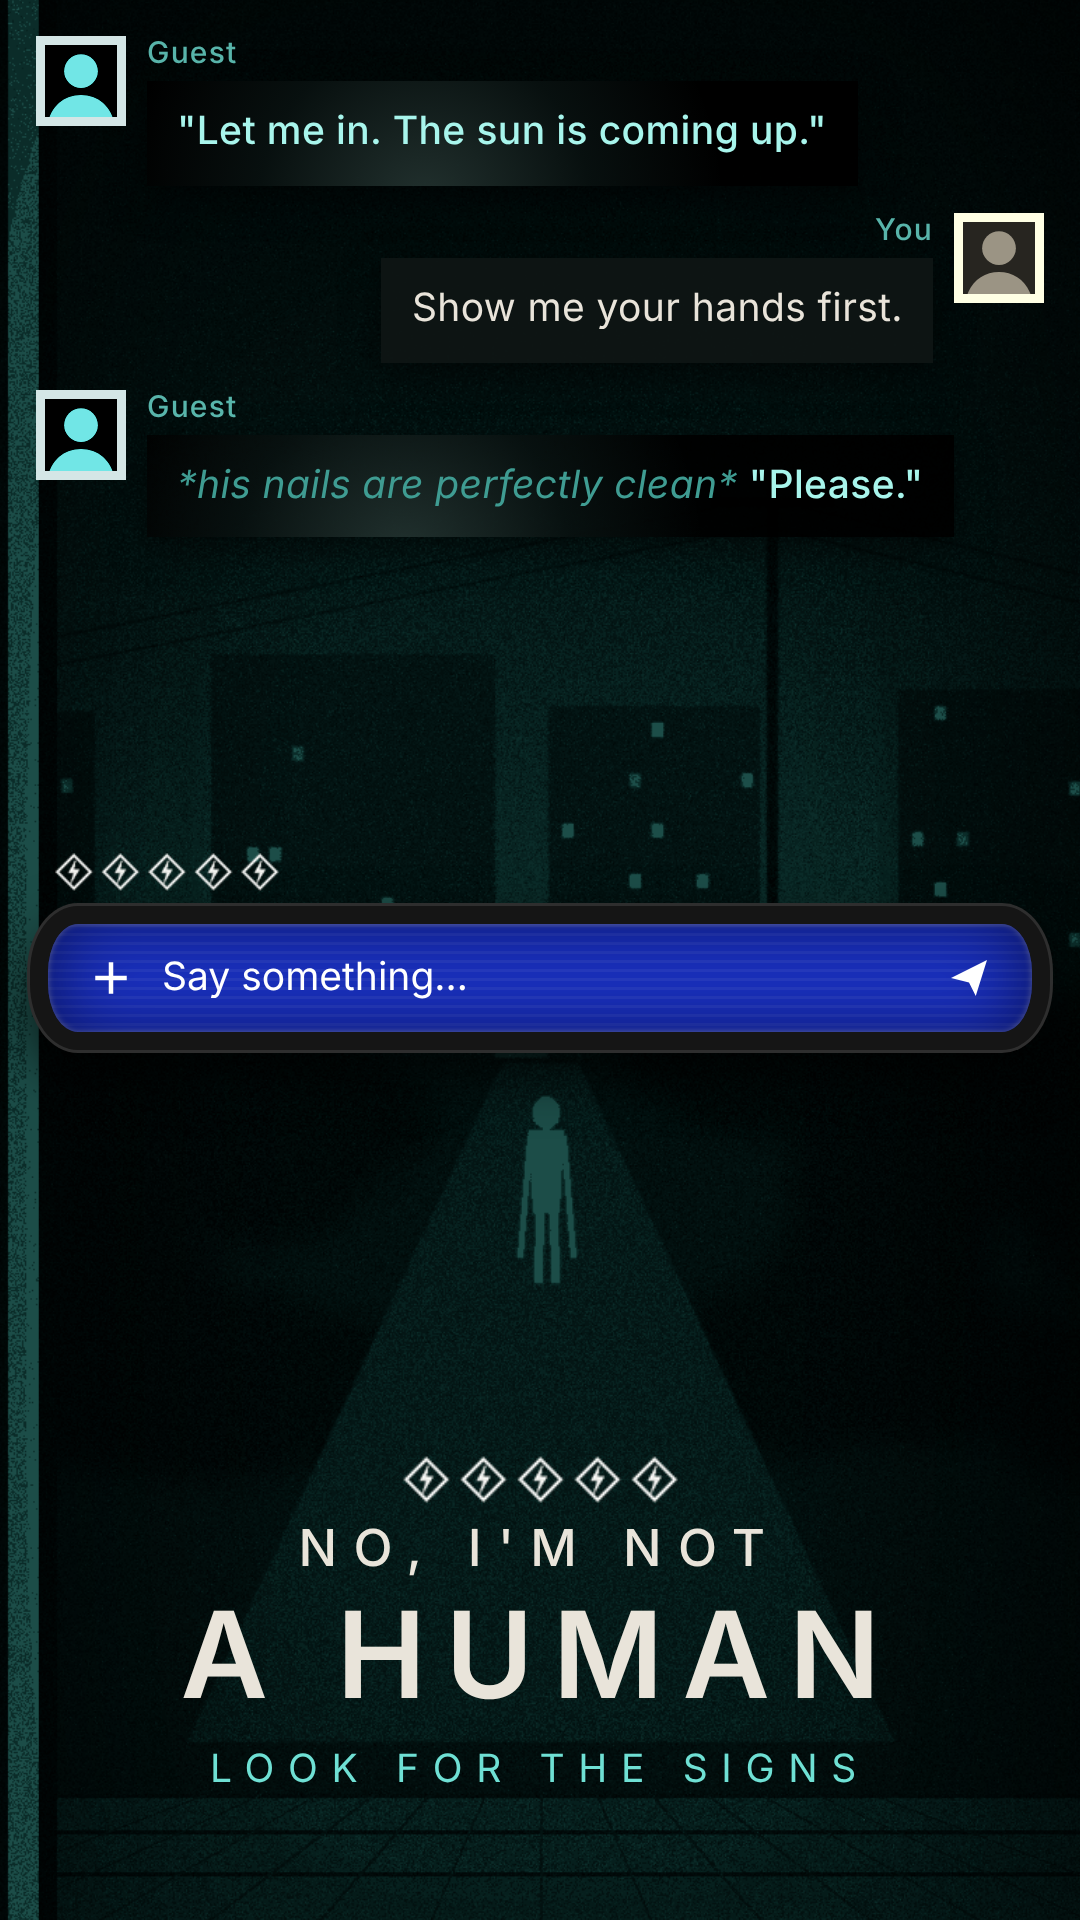
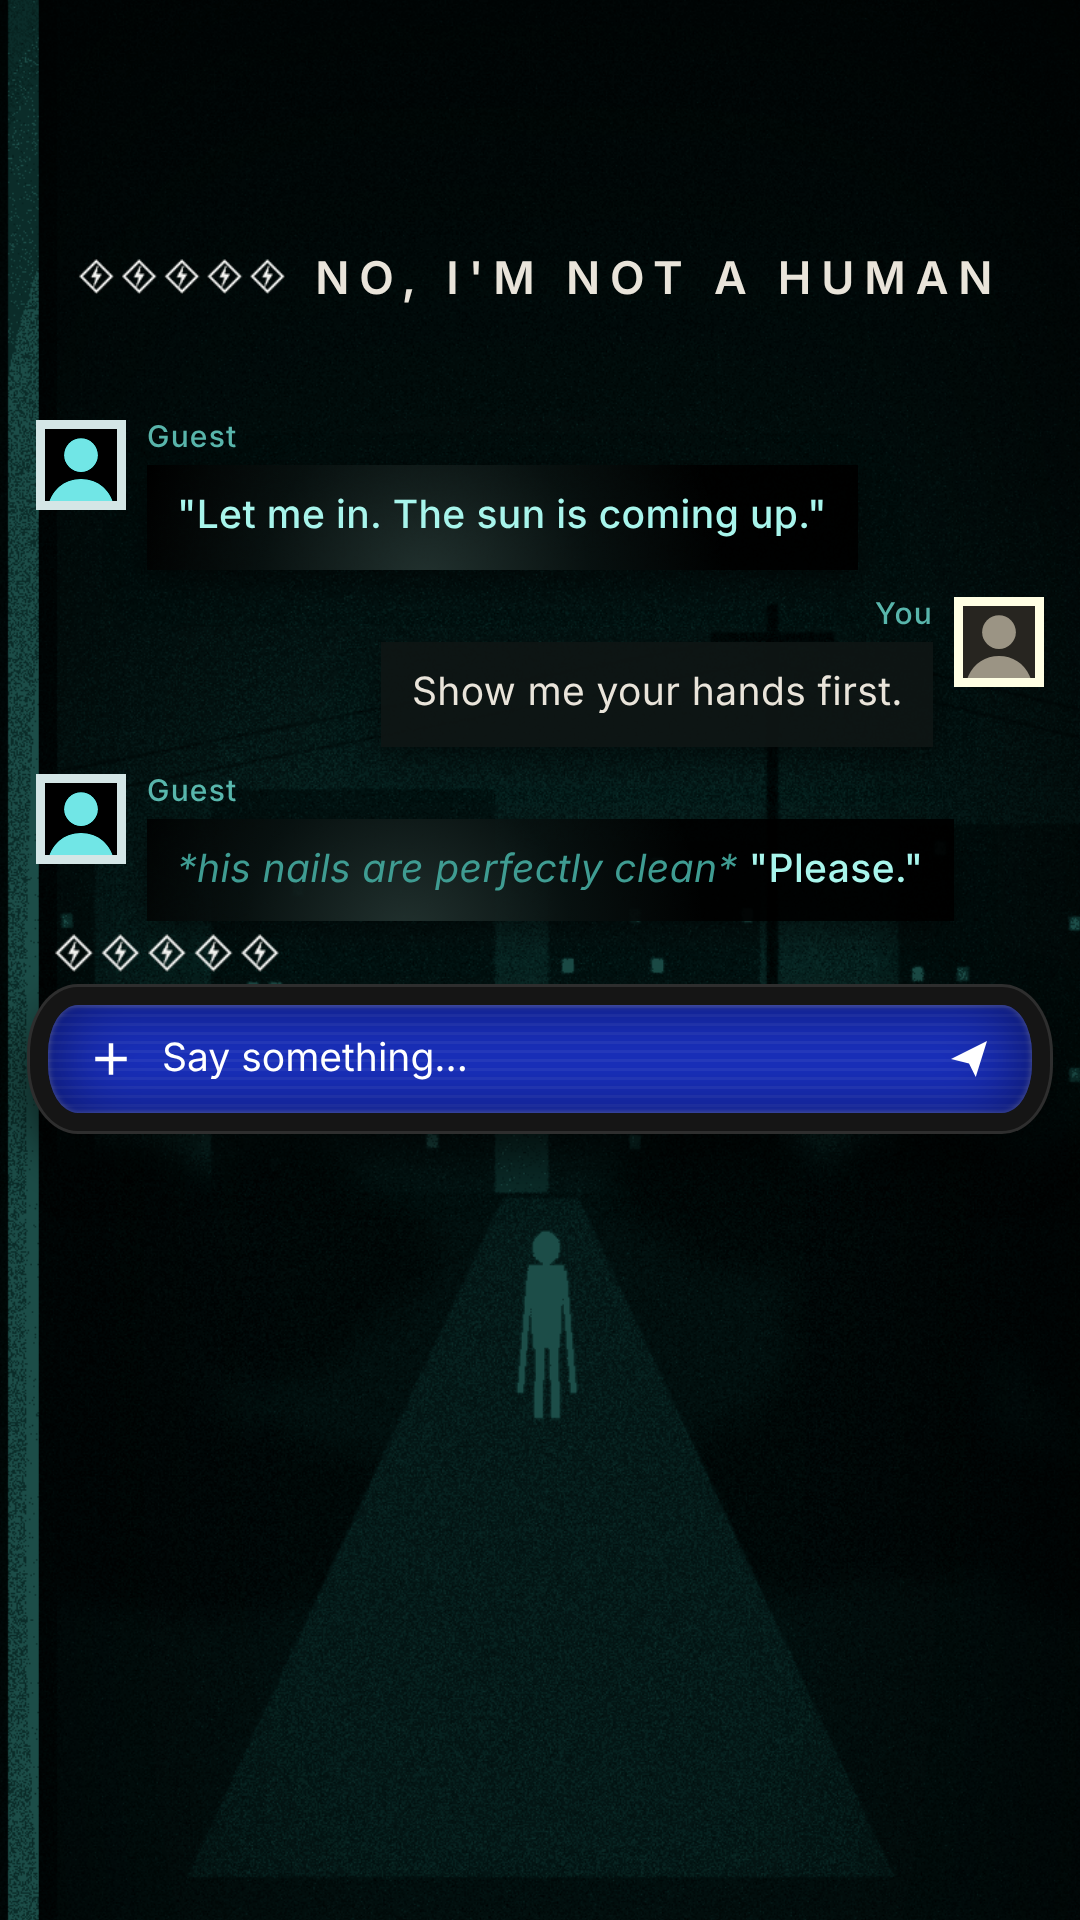
Hub covers: keep chat inside the centre square Hub actually shows
Claude-Session: https://claude.ai/code/session_011AdgnKtmEQrsYZ6duuAFrr

diff --git a/tools/hub-previews.js b/tools/hub-previews.js
@@ -1,6 +1,8 @@
-// Обложки тем для Tavo Hub в формате 9:16: сверху компактный чат из нескольких
-// реплик с настоящим CSS темы (эту часть видно в карточке), снизу название темы
-// на фоне её арта. Для каждой темы две картинки: покой и генерация.
+// Обложки тем для Tavo Hub в формате 9:16. Hub прячет края картинки: карточка
+// показывает средний квадрат, страница темы закрывает верх навигацией, а низ —
+// названием. Поэтому чат с настоящим CSS темы стоит в центральной полосе,
+// над ним маленький логотип, сверху и снизу только фон.
+// Для каждой темы две картинки: покой и генерация.
 //
 // Запуск: node tools/hub-previews.js   (нужен playwright)
 const fs = require('fs')
@@ -17,10 +19,9 @@ const THEMES = [
     active: false, // у Капри генерация почти не меняет вид
     bg: 'center top / cover',
     name: 'Capri',
-    title: `<img src="ASSETS/eye.png" style="width:44px">
-      <div style="font:800 52px 'DejaVu Sans Mono',monospace;color:#2bff6a;letter-spacing:.08em;
-        text-shadow:3px 0 0 #ff1644,-3px 0 0 #164cff,6px 6px 0 #7c3aff">CAPRI</div>
-      <div style="font:700 13px 'DejaVu Sans Mono',monospace;color:#ff1644;letter-spacing:.3em">// PROJECT CAPRICORN</div>`,
+    title: `<img src="ASSETS/eye.png" style="width:24px">
+      <span style="font:800 26px 'DejaVu Sans Mono',monospace;color:#2bff6a;letter-spacing:.08em;
+        text-shadow:2px 0 0 #ff1644,-2px 0 0 #164cff,3px 3px 0 #7c3aff">CAPRI</span>`,
     avatar: ['#2bff6a', '#09070e'],
     lines: [
       ['c', '*glitches into view* "Hehe. You\'re late, choom."'],
@@ -30,12 +31,10 @@ const THEMES = [
   },
   {
     dir: 'not-a-human',
-    bg: 'center -75px / 420px auto',
+    bg: 'center -30px / 420px auto',
     name: 'Guest',
-    title: `<img src="ASSETS/energy-5.png" style="height:16px">
-      <div style="font:500 17px Inter,sans-serif;color:#e9e4da;letter-spacing:.32em;white-space:nowrap">NO, I'M NOT</div>
-      <div style="font:600 40px Inter,sans-serif;color:#e9e4da;letter-spacing:.16em;white-space:nowrap;margin-top:-6px">A HUMAN</div>
-      <div style="font:400 13px Inter,sans-serif;color:#6fe0d4;letter-spacing:.35em">LOOK FOR THE SIGNS</div>`,
+    title: `<img src="ASSETS/energy-5.png" style="height:12px">
+      <span style="font:600 15px Inter,sans-serif;color:#e9e4da;letter-spacing:.22em;white-space:nowrap">NO, I'M NOT A HUMAN</span>`,
     avatar: ['#6fe0d4', '#04100e'],
     lines: [
       ['c', '"Let me in. The sun is coming up."'],
@@ -47,9 +46,8 @@ const THEMES = [
     dir: 'tlou-spores',
     bg: 'center top / cover',
     name: 'Joel',
-    title: `<img src="ASSETS/fireflies-a.png" style="width:300px;margin-bottom:-14px">
-      <div style="font:700 56px Inter,sans-serif;color:#efe6d2;letter-spacing:.22em;text-shadow:0 4px 18px #000">SPORES</div>
-      <div style="font:500 12px Inter,sans-serif;color:#d6ba6e;letter-spacing:.32em">THE LAST OF US · PART I</div>`,
+    title: `<span style="font:700 26px Inter,sans-serif;color:#efe6d2;letter-spacing:.24em;text-shadow:0 3px 12px #000">SPORES</span>
+      <span style="font:500 10px Inter,sans-serif;color:#d6ba6e;letter-spacing:.28em">TLOU · PART I</span>`,
     avatar: ['#d6ba6e', '#1c2018'],
     lines: [
       ['c', '"Mask on. Spores are thick down here."'],
@@ -105,9 +103,9 @@ function page(t, m, generating) {
     html,body{margin:0}
     body{width:${W}px;height:${H}px;overflow:hidden;display:flex;flex-direction:column;
       background:${rgba(m.background.color)} url("${bg}") ${t.bg} no-repeat;font-family:Inter,"Roboto",sans-serif}
-    .top{height:${W}px;display:flex;flex-direction:column}
-    .poster{flex:1;display:flex;flex-direction:column;align-items:center;justify-content:flex-end;
-      gap:6px;padding-bottom:42px;text-align:center}
+    .head{height:128px;box-sizing:border-box;display:flex;align-items:center;justify-content:center;
+      gap:10px;padding-top:56px}
+    .top{display:flex;flex-direction:column}
     .list{flex:1;padding:12px 12px 0;display:flex;flex-direction:column;gap:9px}
     .row{display:flex;gap:7px;align-items:flex-start}.row.u{flex-direction:row-reverse}
     img.tavo-avatar{width:30px;height:30px;flex:none}
@@ -120,7 +118,8 @@ function page(t, m, generating) {
       background-color:${rgba(con.color)};border-radius:${con.radius}px}
     .tavo-composer-input{flex:1;font-size:13px;color:${rgba(con.placeholderColor)}}
     .ic{width:18px;height:18px}
-  </style><style>${css}</style></head><body><div class="top">
+  </style><style>${css}</style></head><body>
+    <div class="head">${t.title.replaceAll('ASSETS/', assets)}</div><div class="top">
     <div class="list">${rows}</div>
     <div class="tavo-composer"><div class="tavo-composer-shell">
       <svg class="ic tavo-composer-add-icon" viewBox="0 0 24 24"><path d="M12 5v14M5 12h14" stroke="${rgba(con.fontColor)}" stroke-width="2"/></svg>
@@ -128,8 +127,7 @@ function page(t, m, generating) {
       ${generating
         ? `<svg class="ic tavo-composer-stop-icon" viewBox="0 0 24 24"><rect x="6" y="6" width="12" height="12" rx="2" fill="${rgba(con.sendColor)}"/></svg>`
         : `<svg class="ic tavo-composer-send-icon" viewBox="0 0 24 24"><path d="M4 12l16-8-5 16-3-6z" fill="${rgba(con.sendColor)}"/></svg>`}
-    </div></div></div>
-    <div class="poster">${t.title.replaceAll('ASSETS/', assets)}</div></body></html>`
+    </div></div></div></body></html>`
 }
 
 ;(async () => {
